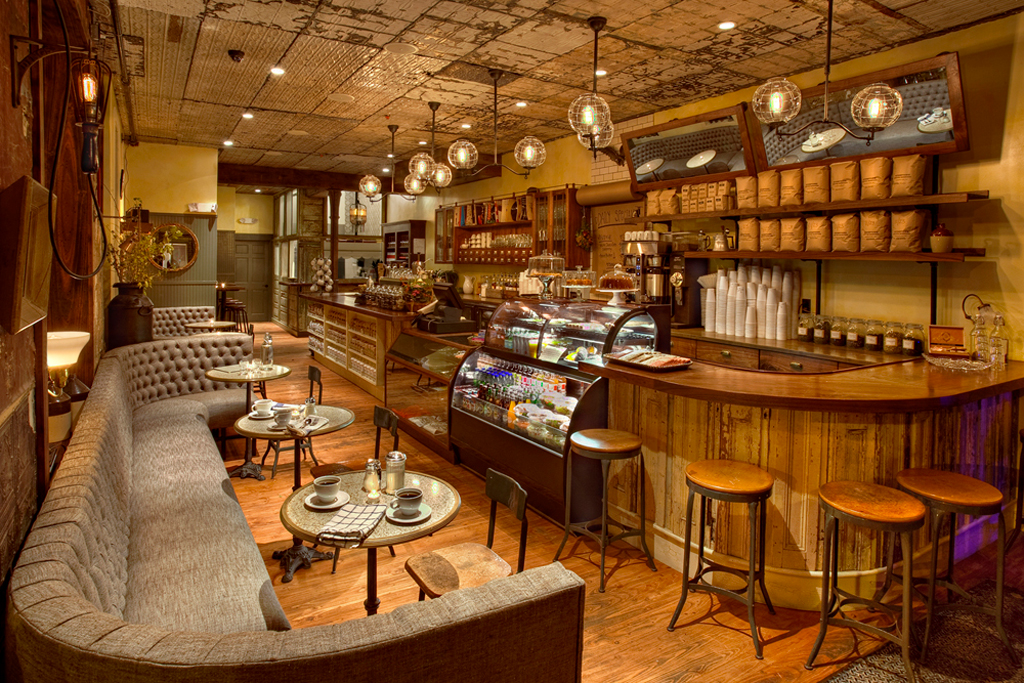
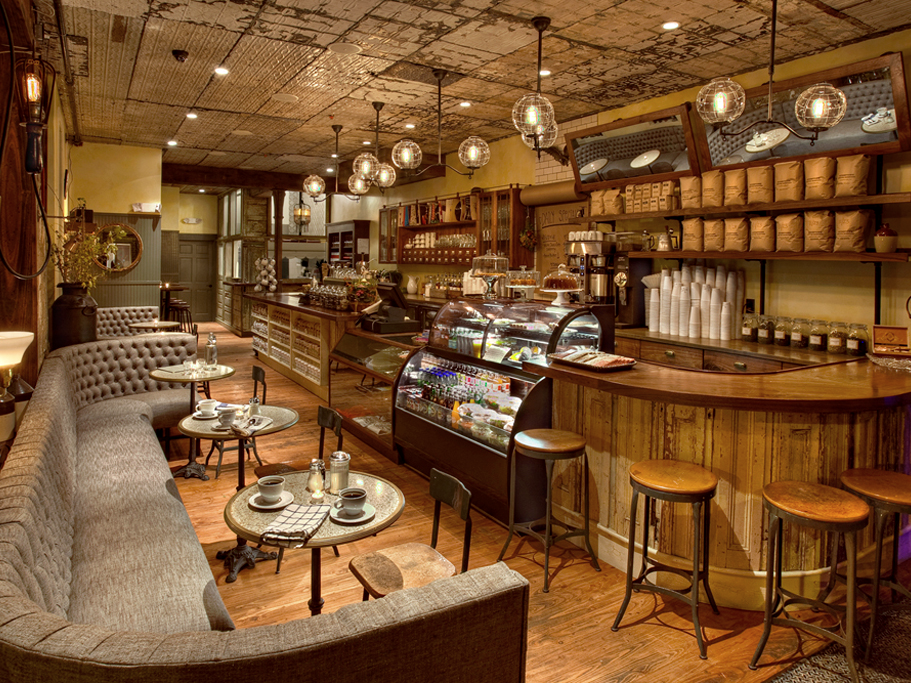
S-012: единый кадр и цвет фото, оригиналы сохранены
Claude-Session: https://claude.ai/code/session_01VQHKhdfw39DXUQadhTuoxi

diff --git a/scripts/process-photos.py b/scripts/process-photos.py
@@ -1,0 +1,32 @@
+"""Нейтральная обработка фото: кроп 4:3 и мягкая цветокоррекция. Без апскейла и дорисовки.
+Запуск: python3 scripts/process-photos.py  (нужен Pillow)."""
+from pathlib import Path
+from PIL import Image, ImageEnhance
+
+SRC = Path('assets-source/photos-original')
+DST = Path('src/assets/photos')
+SAT = {'hall': 0.78}  # остальные 0.95
+
+
+def crop_43(im):
+    w, h = im.size
+    tw = min(w, round(h * 4 / 3))
+    th = round(tw * 3 / 4)
+    left, top = (w - tw) // 2, (h - th) // 2
+    return im.crop((left, top, left + tw, top + th))
+
+
+def grade(im, sat):
+    im = ImageEnhance.Color(im).enhance(sat)
+    r, g, b = im.split()
+    if sat > 0.9:
+        r = r.point(lambda v: min(255, round(v * 1.02)))
+        b = b.point(lambda v: round(v * 0.98))
+    im = Image.merge('RGB', (r, g, b))
+    return ImageEnhance.Contrast(im).enhance(1.03)
+
+
+for f in sorted(SRC.glob('*.png')):
+    im = grade(crop_43(Image.open(f).convert('RGB')), SAT.get(f.stem, 0.95))
+    im.save(DST / f.name, optimize=True)
+    print(f.name, im.size)
